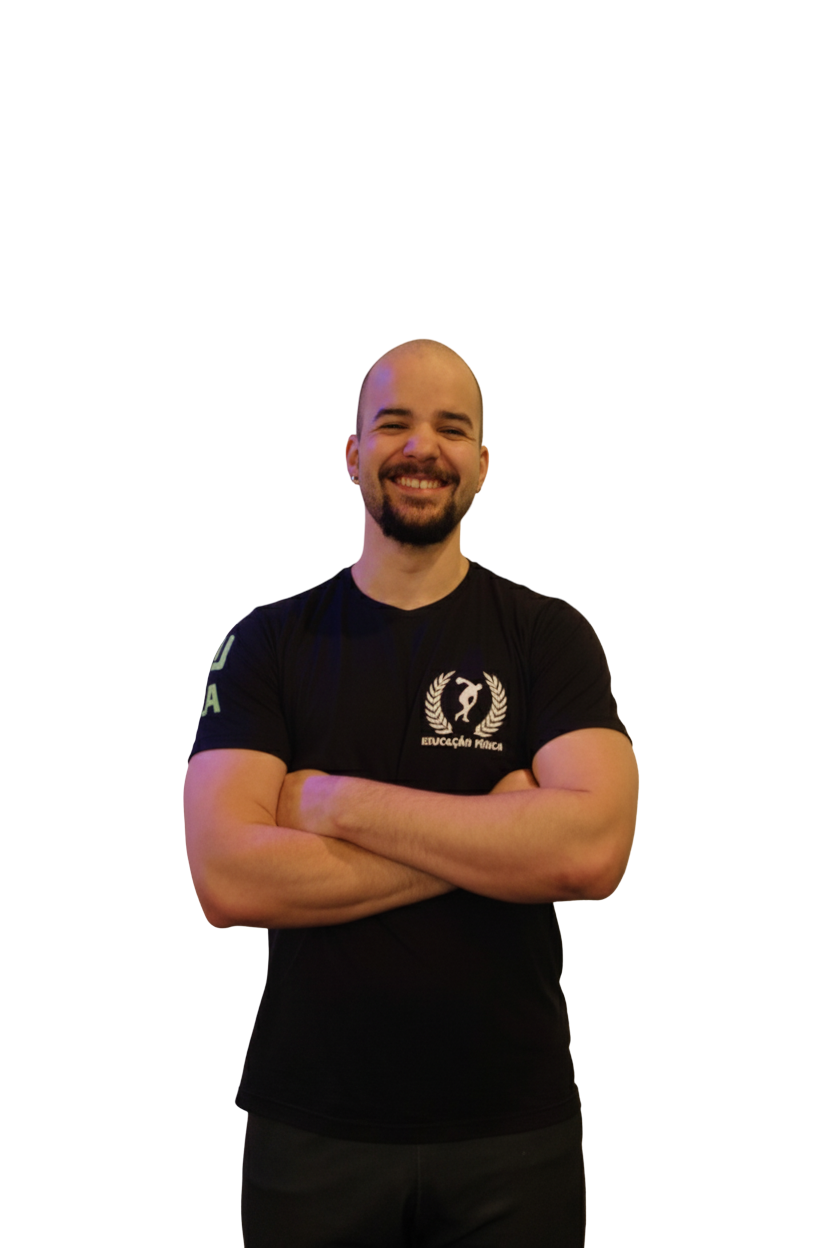
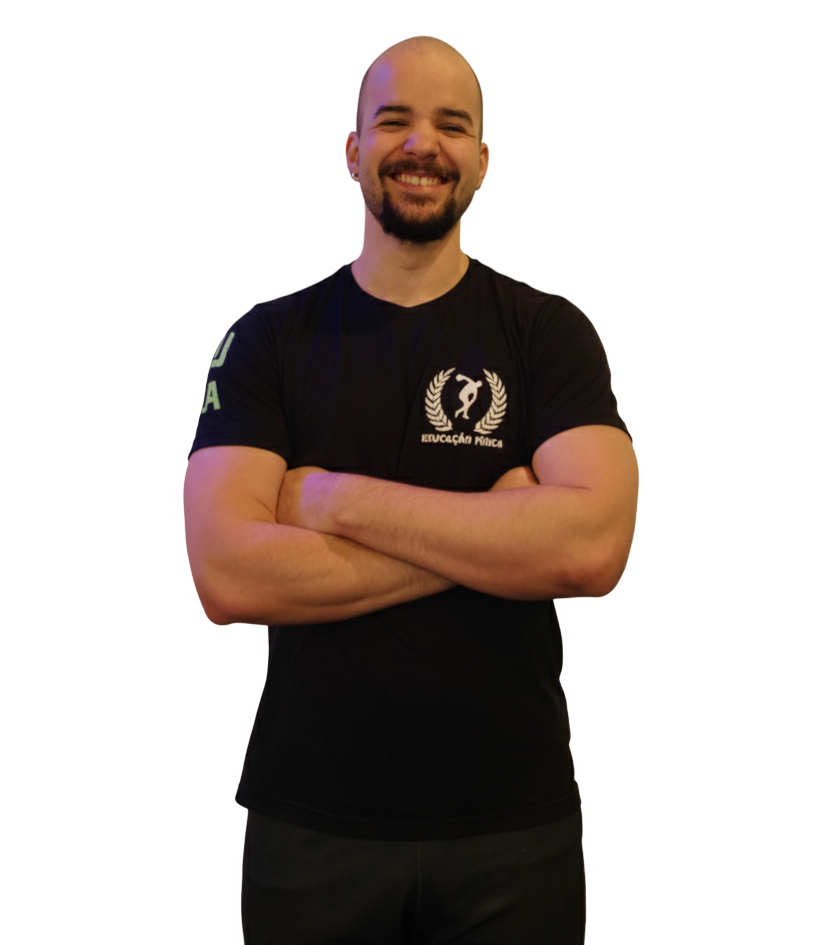
ajuste no tamanho da imgem no hero

Changed region(s): [[0.2188, 0.0307, 0.7812, 0.9206], [0.6875, 0.8286, 0.7188, 0.8899]]

diff --git a/css/style.css b/css/style.css
@@ -81,3 +81,18 @@ a {
 .auto-rows-max {
     grid-auto-rows: max-content;
 }
+
+/* Hero Section Mobile - Inverte ordem e reduz espaçamento */
+@media (max-width: 768px) {
+    #hero .grid {
+        gap: 3px !important;
+    }
+    
+    #hero .grid > div:first-child {
+        order: 2;
+    }
+    
+    #hero .grid > div:last-child {
+        order: 1;
+    }
+}